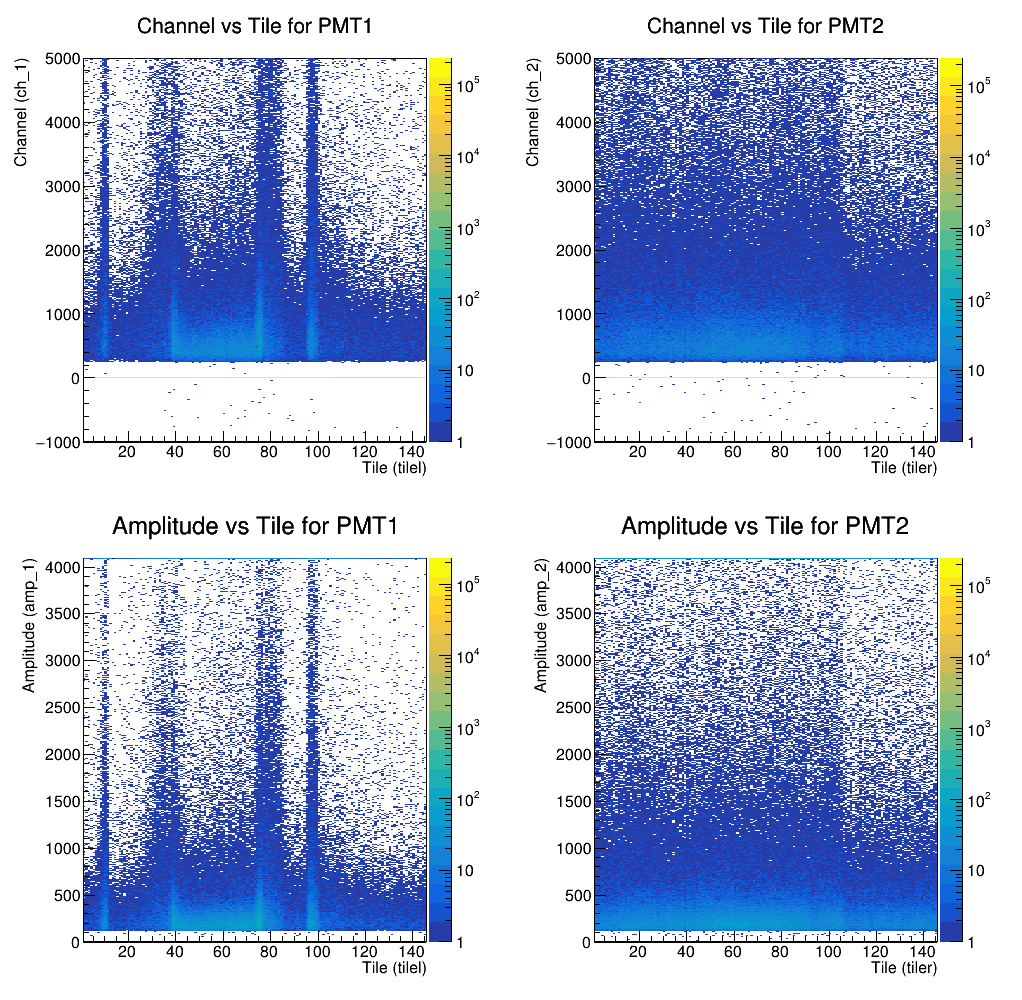
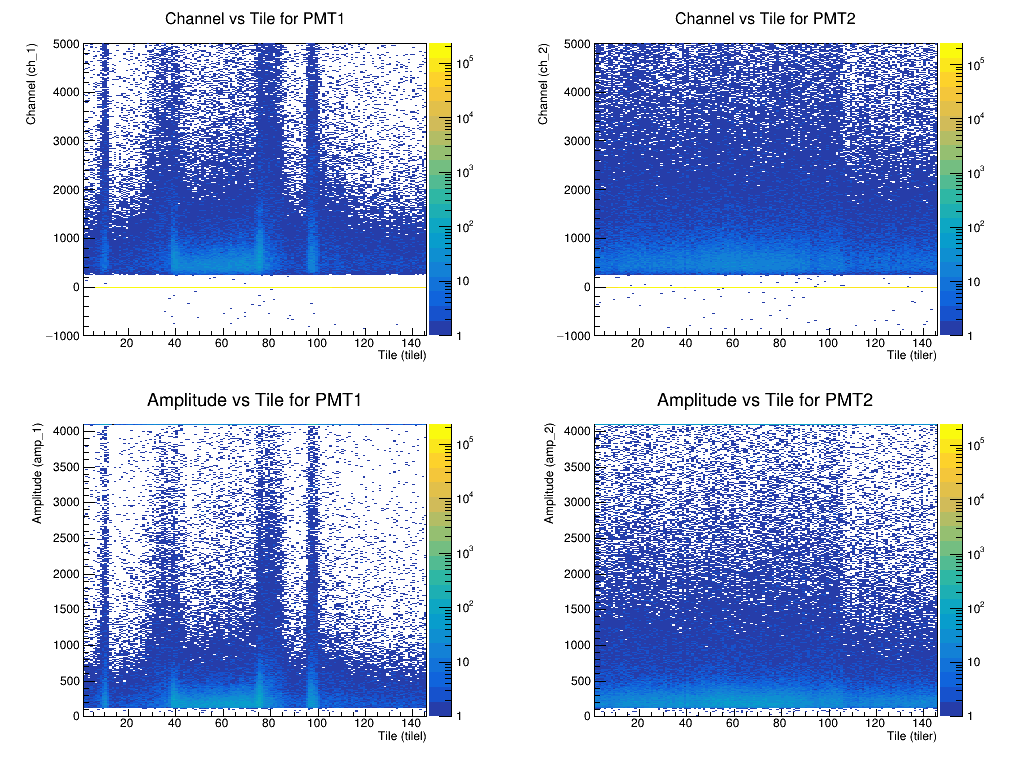
lol

diff --git a/src/main.cpp b/src/main.cpp
@@ -121,14 +121,14 @@ int main(int argc, char* argv[]) {
 	}
 
 	// Test fitting function on the test histigram
-	test();
+	// test();
 
 	// Iterate through input files and run analysis
-//	for (TObject* object : *(constants->parameters.inputFiles)) {
-//		if (TObjString* objString = dynamic_cast<TObjString*>(object)){
-//			run(objString->GetString());
-//		}
-//	}
+	for (TObject* object : *(constants->parameters.inputFiles)) {
+		if (TObjString* objString = dynamic_cast<TObjString*>(object)){
+			run(objString->GetString());
+		}
+	}
 
 	app->Run();
 	return 0;
